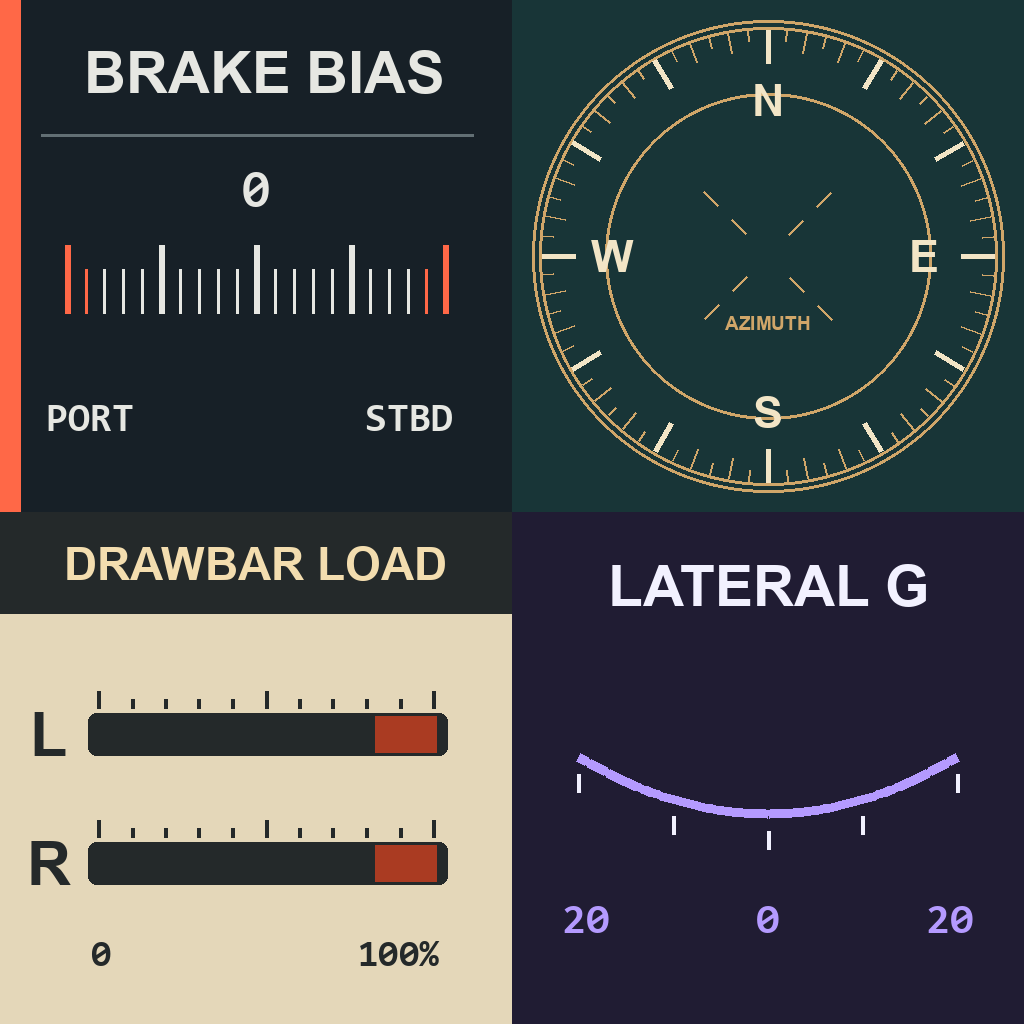
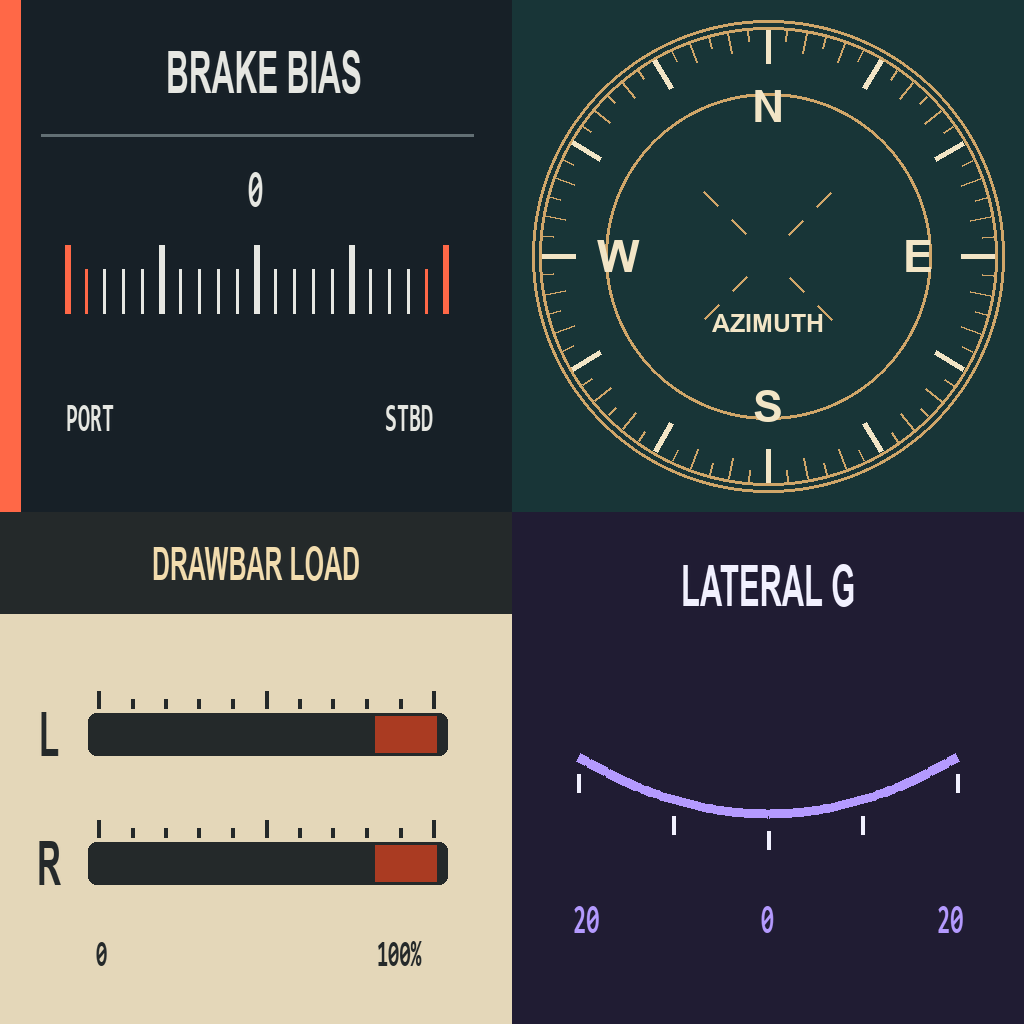
Clear cockpit instruments and fit lettering to the physical displays

diff --git a/tools/art_cockpit_meters.py b/tools/art_cockpit_meters.py
@@ -23,7 +23,15 @@ def card(base):
 
 
 def label(d, at, words, size, ink, mono=False):
-    d.text(at, words, font=typeface(size, mono), fill=ink, anchor="mm")
+    # The square atlas tile stretches across a 184 x 100 mm plate.
+    # Compress the ink horizontally before printing so the mounted type has its intended proportions.
+    font = typeface(size, mono)
+    left, top, right, bottom = font.getbbox(words, anchor="mm")
+    mask = Image.new("L", (right - left, bottom - top))
+    ImageDraw.Draw(mask).text((-left, -top), words, font=font, fill=255, anchor="mm")
+    scale = 100 / 184
+    mask = mask.resize((max(1, round(mask.width * scale)), mask.height), Image.Resampling.LANCZOS)
+    d.bitmap((round(at[0] + left * scale), round(at[1] + top)), mask, fill=ink)
 
 
 def brake_card():
@@ -55,12 +63,12 @@ def compass_card():
                fill=paper if i % 6 == 0 else gold, width=5 if i % 6 == 0 else 2)
     for a, title in enumerate("NESW"):
         angle = radians(a*90-90)
-        label(d, (256+156*cos(angle), 256+156*sin(angle)), title, 45, paper)
+        d.text((256+150*cos(angle), 256+150*sin(angle)), title, font=typeface(45), fill=paper, anchor="mm")
     for deg in (45, 135, 225, 315):
         a = radians(deg)
         for r in [50, 90]:
             d.line((256+(r-20)*cos(a), 256+(r-20)*sin(a), 256+r*cos(a), 256+r*sin(a)), fill=gold, width=2)
-    label(d, (256, 323), "AZIMUTH", 19, gold)
+    d.text((256, 323), "AZIMUTH", font=typeface(25), fill=paper, anchor="mm")
     return im
 
 
